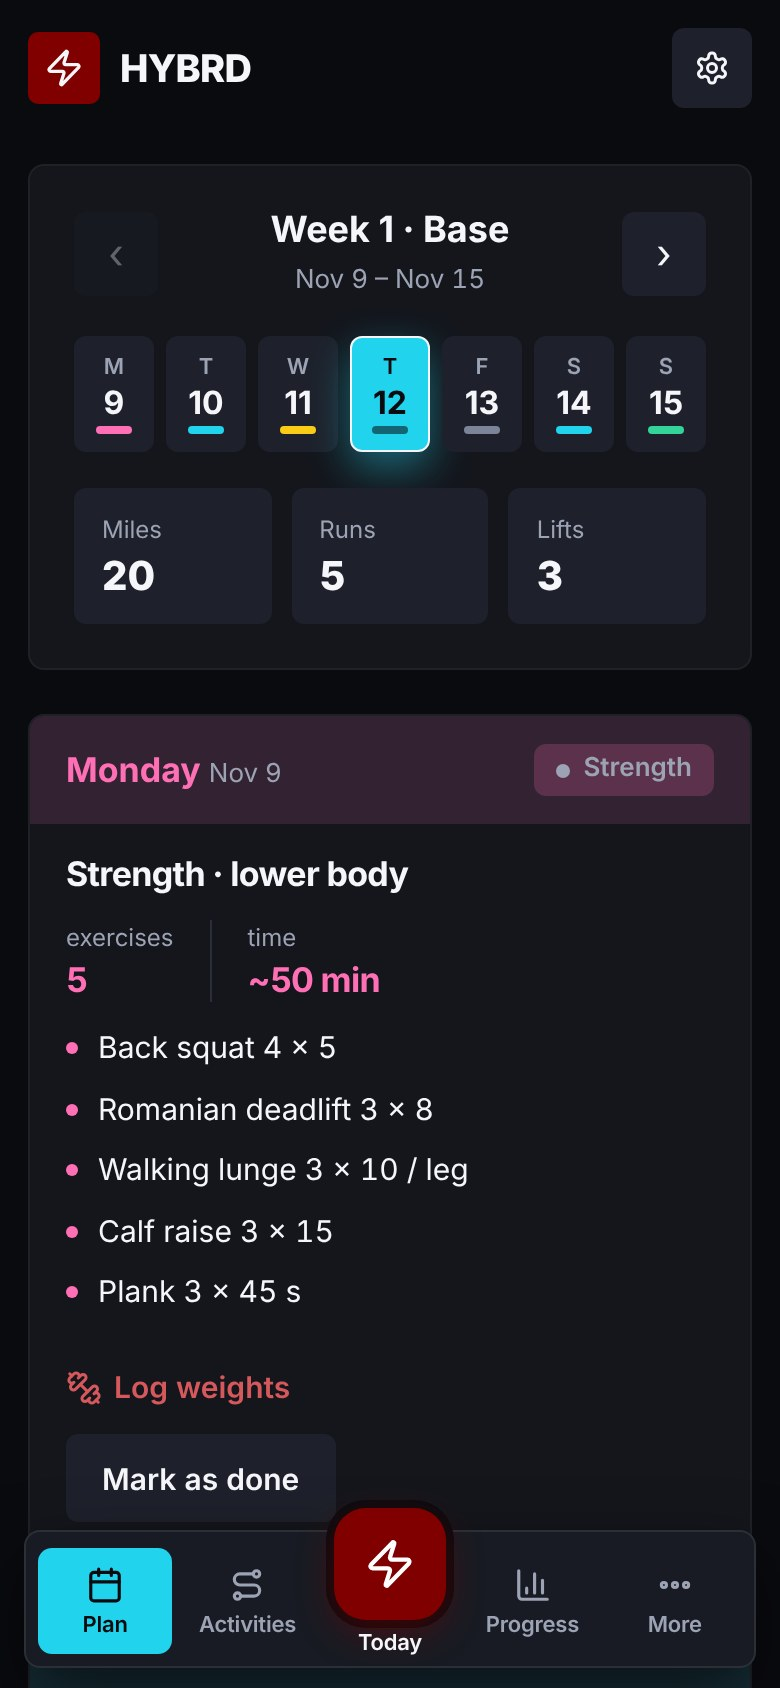
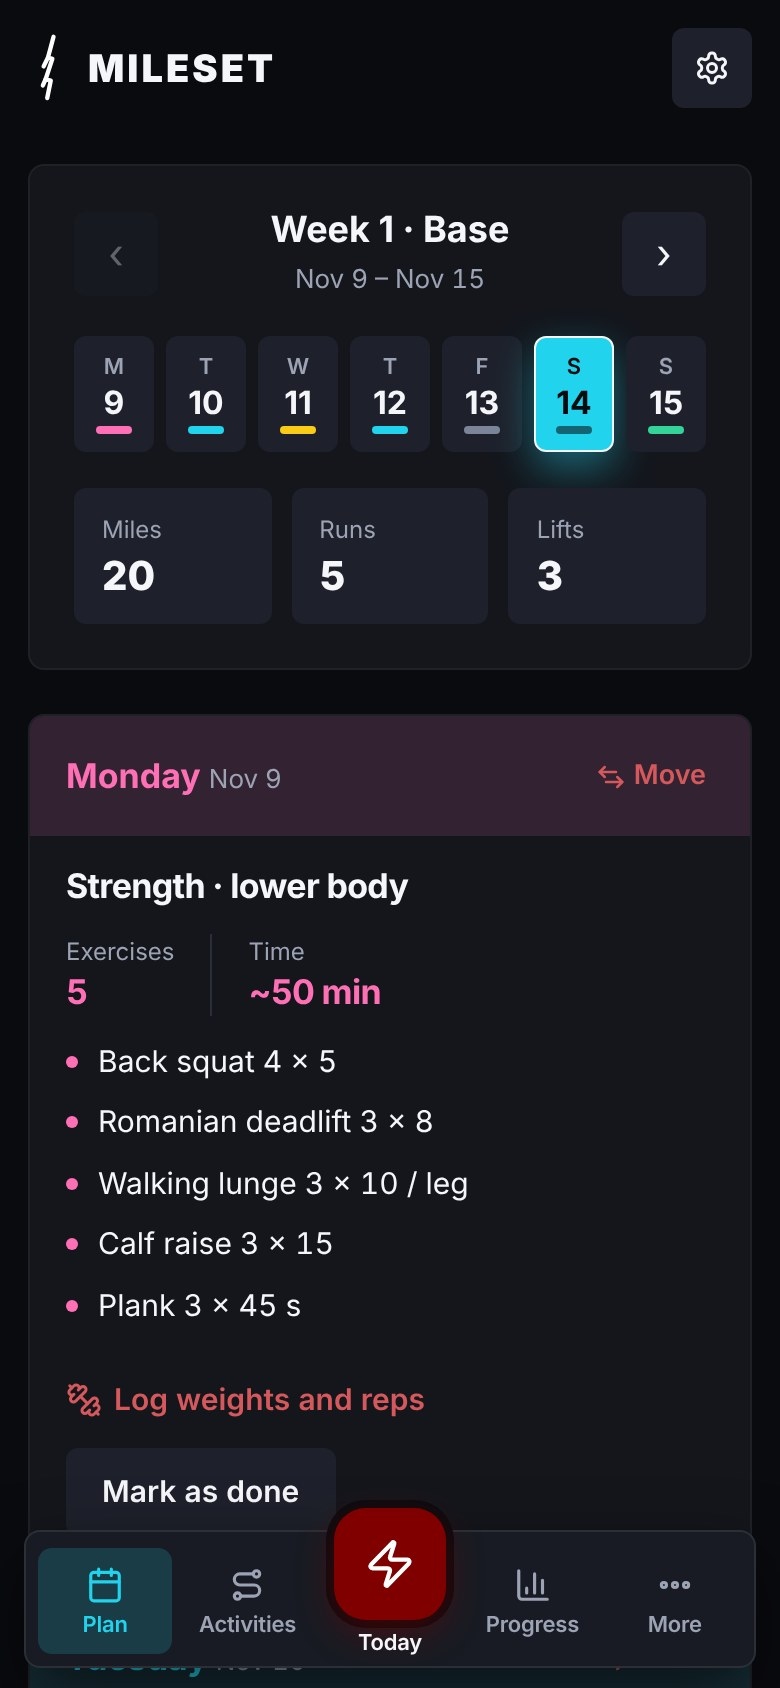
Website with personality: founder note signed Matthew, race-bib Founding 100, 'stuff other apps skip' list, new Mileset screenshots (old ones still said HYBRD)

diff --git a/home/index.html b/home/index.html
@@ -39,7 +39,7 @@ img{max-width:100%;display:block}
 
 /* hero */
 .hero{position:relative;padding:56px 0 40px}
-.hero::before{content:"";position:absolute;inset:-120px 0 auto;height:620px;background:radial-gradient(60% 55% at 70% 30%,rgba(128,0,0,.38),transparent 70%),radial-gradient(40% 40% at 15% 10%,rgba(34,211,238,.10),transparent 70%);pointer-events:none;z-index:-1}
+.hero::before{content:"";position:absolute;inset:-120px 0 auto;height:640px;background:repeating-linear-gradient(90deg,transparent 0 119px,rgba(255,255,255,.035) 119px 120px),radial-gradient(55% 60% at 75% 25%,rgba(128,0,0,.42),transparent 70%);pointer-events:none;-webkit-mask-image:linear-gradient(#000 55%,transparent);mask-image:linear-gradient(#000 55%,transparent);z-index:-1}
 .hero .wrap{display:grid;grid-template-columns:1.05fr .95fr;gap:48px;align-items:center}
 .tag{display:inline-flex;align-items:center;gap:8px;padding:7px 12px;border-radius:999px;background:rgba(224,70,76,.12);color:#ff8a8f;font:700 12.5px/1 var(--f-body);letter-spacing:.06em;text-transform:uppercase}
 .tag i{width:7px;height:7px;border-radius:50%;background:#ff5a60;box-shadow:0 0 0 4px rgba(255,90,96,.18)}
@@ -131,6 +131,19 @@ footer a:hover{color:var(--ink)}
   .band{grid-template-columns:1fr}
   .final{padding:52px 20px}
 }
+.made{display:inline-block;font:700 12.5px/1 var(--f-body);letter-spacing:.12em;text-transform:uppercase;color:#ff8a8f;border-bottom:2px solid var(--accent);padding-bottom:6px}
+.bibcard{position:relative;background:#F4F1EA !important;border:0 !important;color:#16171c;transform:rotate(-.8deg);padding:16px 22px !important;box-shadow:0 18px 40px -20px rgba(0,0,0,.9)}
+.bibcard i{position:absolute;width:8px;height:8px;border-radius:50%;background:var(--bg)}.bibcard i:nth-child(1){left:9px;top:9px}.bibcard i:nth-child(2){right:9px;top:9px}.bibcard i:nth-child(3){left:9px;bottom:9px}.bibcard i:nth-child(4){right:9px;bottom:9px}
+.bibcard b{color:#800000 !important}.bibcard .fnum{font:800 34px/1 var(--f-display);letter-spacing:-.03em;color:#16171c !important}.bibcard span{color:#4a4a4a !important}
+.also{padding:96px 0 24px}.also h2{max-width:14em}
+.also-list{list-style:none;margin:28px 0 0;padding:0;border-top:1px solid var(--line)}
+.also-list li{display:grid;grid-template-columns:72px 1fr;gap:20px;padding:26px 0;border-bottom:1px solid var(--line)}
+.also-list .n{font:800 15px/1.6 var(--f-display);color:var(--c);letter-spacing:.06em}
+.also-list h3{font:800 clamp(22px,2.4vw,28px)/1.15 var(--f-display);letter-spacing:-.02em;margin:0 0 8px}.also-list p{margin:0;color:var(--muted);max-width:40em}
+.note{margin:72px auto 24px;max-width:680px;padding:36px 32px;border-left:4px solid var(--accent);background:var(--surface);border-radius:0 12px 12px 0}
+.note h2{margin-top:0}.note p{color:#c9cdd8}.note a{color:#ff8a8f}
+.note .sig{font:italic 600 28px/1 Georgia,"Times New Roman",serif;color:var(--ink);margin:22px 0 0;transform:rotate(-2deg);display:inline-block}
+@media (max-width:640px){.also-list li{grid-template-columns:1fr;gap:6px}.note{padding:26px 20px}}
 .founding{margin-top:22px;display:grid;gap:4px;max-width:520px;padding:14px 16px;border-radius:10px;background:rgba(190,56,62,.16);border:1px solid rgba(212,88,92,.5)}
 .founding b{font-weight:800;font-size:14px;letter-spacing:.08em;text-transform:uppercase;color:#fff}.founding span{font-size:15px;color:var(--muted);line-height:1.5}.founding strong{color:var(--ink)}
 </style>
@@ -147,15 +160,15 @@ footer a:hover{color:var(--ink)}
   <section class="hero">
     <div class="wrap">
       <div class="rv">
-        <span class="tag"><i></i>Early access</span>
+        <span class="made">Made in Florida by a runner who lifts</span>
         <h1>Train for anything.<br><em>Eat for it too.</em></h1>
-        <p class="lead">Mileset builds a week-by-week plan around your life, with strength days, daily food targets and a plan that eases off when you're run down.</p>
+        <p class="lead">A week-by-week plan built around your actual life: early shifts, leg day, pickleball on Thursday, a race in 10 days. It eases off when you're run down, and it works with or without a watch.</p>
         <div class="ctas">
           <a class="btn primary" href="https://app.hybrdrunning.com/?src=site">Get early access</a>
           <a class="btn ghost" href="#how">See how it works</a>
         </div>
         <p class="fine">Free while in early access. Works on any phone, no download needed.</p>
-        <div class="founding"><b>Founding 100</b><span>The first 100 members get Mileset free for life, including anything paid we add later. <strong id="fspots">Limited spots</strong> · ends Jan 1, 2027</span></div>
+        <div class="founding bibcard"><i></i><i></i><i></i><i></i><b>Founding 100</b><strong class="fnum" id="fspots">Limited spots</strong><span>The first 100 members get Mileset free for life, including anything paid we add later. Ends Jan 1, 2027.</span></div>
       </div>
       <div class="phones rv" aria-hidden="true">
         <div class="phone p1"><img src="plan.jpg" alt="" width="780" height="1688" loading="eager"></div>
@@ -223,12 +236,28 @@ footer a:hover{color:var(--ink)}
         <div class="shot rv"><div class="phone"><img src="fuel.jpg" alt="The Fuel screen with calories and macros left today" width="780" height="1688" loading="eager" decoding="async"></div></div>
       </article>
     </section>
+    <section class="also" id="more">
+      <h2 class="rv">The stuff other apps skip.</h2>
+      <ol class="also-list">
+        <li class="rv" style="--c:var(--easy)"><span class="n">01</span><div><h3>No watch? It still works.</h3><p>Tap "Start with my phone" and a voice coach calls every rep, keeps time, and tracks distance by GPS if you want. Pace by feel with the talk test, rate how hard it was from 1 to 10, and the plan adapts to that. A watch makes it sharper. It isn't required.</p></div></li>
+        <li class="rv" style="--c:var(--work)"><span class="n">02</span><div><h3>Pickleball counts.</h3><p>Soccer, yoga, a hike, a spin class. Whatever you did, Mileset figures out what it was, how hard it was and how it fits your week. If it replaced an easy run, it gets checked off. You get a plain-English summary after every activity.</p></div></li>
+        <li class="rv" style="--c:var(--lift)"><span class="n">03</span><div><h3>Training that knows your cycle.</h3><p>Optional for women: your phase, your symptoms and your own pattern steer the hard days. It stays on your phone. It never touches our servers.</p></div></li>
+        <li class="rv" style="--c:var(--accent-2)"><span class="n">04</span><div><h3>Race in 10 days? Still yes.</h3><p>Signed up late? Mileset builds a taper from where you are now instead of telling you it's too soon.</p></div></li>
+        <li class="rv" style="--c:var(--swim)"><span class="n">05</span><div><h3>Treadmill or outside, your call.</h3><p>Pick per run. Treadmill gets speeds in mph and no heat adjustment. Your watch still gets one workout, not two.</p></div></li>
+      </ol>
+    </section>
+    <section class="note rv" aria-labelledby="note-h">
+      <h2 id="note-h">Why I built this</h2>
+      <p>I'm 21, in nursing school, and I work a shift that starts at 4:30 in the morning. I played football, I lift, and I ran the Marine Corps Marathon. Every plan I found assumed running was my whole life. None of them knew what to do with leg day, a bad night of sleep, or a week where school ate everything.</p>
+      <p>So I built the plan I wanted: one that bends around a real schedule and still gets you to the start line ready. If something's off or missing, email me at <a href="mailto:milesetapp@gmail.com">milesetapp@gmail.com</a>. I read every one.</p>
+      <p class="sig">Matthew</p>
+    </section>
 
     <section class="connects rv">
       <div>
         <span class="kicker" style="--c:var(--accent-2)">Connects to your watch</span>
         <h2>Your workouts come in on their own.</h2>
-        <p>Link Garmin or Strava once. Runs, rides, lifts, routes, sleep and heart rate sync automatically. Apple Watch, WHOOP and Oura come in through Apple Health.</p>
+        <p>Link Garmin or Strava once. Runs, rides, lifts, routes, sleep and heart rate sync automatically. Apple Watch, WHOOP and Oura come in through Apple Health. No watch? Your phone is enough.</p>
         <div class="badges"><span class="gbn"><img src="https://app.hybrdrunning.com/brand/garmin-white.png" alt="Garmin" width="463" height="72"><em>Connect</em></span><span class="cws"><img src="https://app.hybrdrunning.com/brand/compatible-strava-orange.svg" alt="Compatible with Strava" width="437" height="37"></span></div>
       </div>
       <div class="apps">
